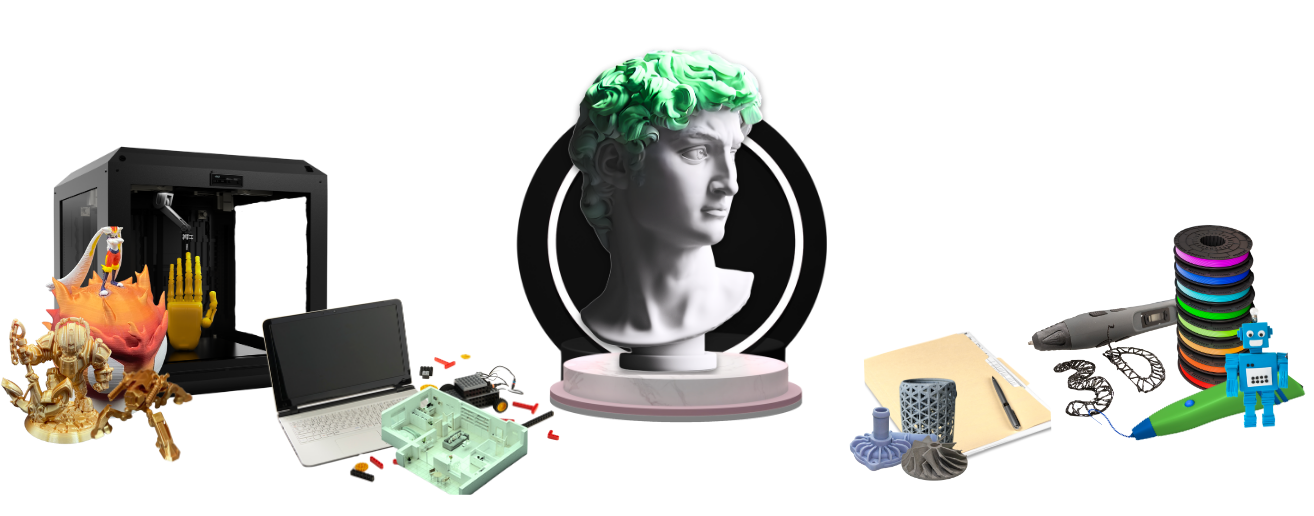
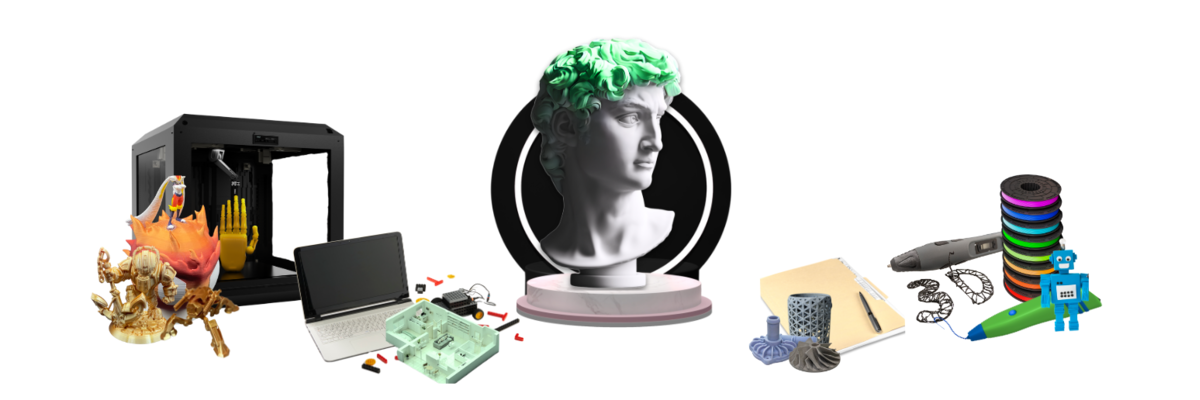
Agent query: Is the services section displaying all four services (3D Printing, AutoCAD Modeling, Consultation Services, and 3D Pen Art Workshop) with their complete descriptions?
Update website assets and refine service descriptions.  Minor UI adjustments to hero image and navbar.

Screenshot: https://storage.googleapis.com/screenshot-production-us-central1/b2414124-c20f-4490-81df-79a87c8a6c69/4aa1333f-a1d3-4c74-a38e-d1c8a9ecb427.jpg

Changed region(s): [[0.0, 0.09, 1.0, 0.96]]

diff --git a/client/src/components/services.tsx b/client/src/components/services.tsx
@@ -10,22 +10,22 @@ const services = [
     details: "Our technology ensures precision, durability, and customization for all creations, big or small.",
   },
   {
-    title: "AutoCAD Modeling",
-    description: "Transform your ideas into 3D-print-ready designs with our expert AutoCAD modelling services. We specialize in creating precise and functional models tailored for 3D printing.",
+    title: "AutoCAD Modeling (Small to Large Scale)",
+    description: "Transform your ideas into 3D-print-ready designs with our expert AutoCAD modelling services. We specialize in creating precise and functional models tailored for 3D printing, ensuring every detail is optimized for a flawless print.",
     icon: Code,
     details: "From intricate prototypes to large-scale production designs.",
   },
   {
-    title: "Consultation Services",
-    description: "Navigate the world of 3D printing with confidence through our expert consultation services. Our team provides tailored guidance at every step.",
+    title: "Consultation Services (Design and Materials)",
+    description: "Navigate the world of 3D printing with confidence through our expert consultation services. From selecting the right materials—such as PLA, ABS, resin, metal, and more—to refining your design for optimal results, our team provides tailored guidance at every step.",
     icon: GraduationCap,
     details: "Whether you're prototyping, creating functional parts, or producing artistic pieces.",
   },
   {
-    title: "3D Pen Art Workshop",
-    description: "Unleash your creativity with our fun and engaging 3D Pen Art Workshops, designed for all ages and skill levels. Perfect for kids, adults, families, and team-building events.",
+    title: "3D Pen Art Workshop (For Kids to Adults)",
+    description: "Unleash your creativity with our fun and engaging 3D Pen Art Workshops, designed for all ages and skill levels. Whether you're a curious beginner or a seasoned artist, our hands-on sessions guide you in creating stunning 3D masterpieces.",
     icon: Pen,
-    details: "Let your imagination come to life—one stroke at a time!",
+    details: "Perfect for kids, adults, families, and team-building events, these workshops combine creativity and innovation in an enjoyable and interactive environment. Let your imagination come to life—one stroke at a time!",
   }
 ];
 

diff --git a/client/src/components/navbar.tsx b/client/src/components/navbar.tsx
@@ -23,7 +23,8 @@ export default function Navbar() {
           <img 
             src="/Ethereal-Logo.png" 
             alt="Ethereal" 
-            className="h-12 w-auto"
+            className="h-10 w-auto object-contain" 
+            style={{ filter: 'drop-shadow(0 0 8px rgba(0, 255, 0, 0.3))' }}
             onError={(e) => {
               console.error('Logo failed to load:', e);
               const target = e.target as HTMLImageElement;
@@ -35,7 +36,7 @@ export default function Navbar() {
         {/* Right menu */}
         <div className="hidden md:flex items-center space-x-8">
           <Link href="/workshops">
-            <span className="text-white hover:text-[#00FF00] transition-colors text-xs tracking-[0.2em] font-medium">WORKSHOPS</span>
+            <span className="text-white hover:text-[00FF00] transition-colors text-xs tracking-[0.2em] font-medium">WORKSHOPS</span>
           </Link>
           <Link href="/consult">
             <span className="text-white hover:text-[#00FF00] transition-colors text-xs tracking-[0.2em] font-medium">CONSULT</span>

diff --git a/client/src/components/hero.tsx b/client/src/components/hero.tsx
@@ -43,7 +43,7 @@ export default function Hero() {
                 <img 
                   src="/Ethereal-Homepage.png" 
                   alt="3D Printing Showcase" 
-                  className="w-full h-full object-cover object-center"
+                  className="w-full h-full object-contain bg-black/50" 
                   onError={(e) => {
                     console.error('Hero image failed to load:', e);
                     const target = e.target as HTMLImageElement;

diff --git a/attached_assets/quenstance_my_canva_site_trial-ethereal-website.md b/attached_assets/quenstance_my_canva_site_trial-ethereal-website.md
@@ -84,11 +84,11 @@ expertise
 
 ![](https://quenstance.my.canva.site/trial-ethereal-website/_assets/media/795952394cba50b35f6ce060c343538d.png)
 
-![](blob:https://quenstance.my.canva.site/4f3cef1b-ae6b-4466-be97-a5f1d8564155)
+![](blob:https://quenstance.my.canva.site/2a4072d1-5b5f-40ec-b9b6-83f6b8b56d4e)
 
-![](blob:https://quenstance.my.canva.site/5a3414c0-e79d-40f3-b362-1207546040a0)
+![](blob:https://quenstance.my.canva.site/e951ca02-e428-42fd-851b-d14994290e5e)
 
-![](blob:https://quenstance.my.canva.site/7cd1daa5-ed4a-483f-b716-d5a1fc0b0764)
+![](blob:https://quenstance.my.canva.site/16c522c6-c06f-48b2-9496-46129b5044c5)
 
 Trusted by Leading Brands
 
@@ -106,11 +106,11 @@ WHY CHOOSE US?
 
 ![](https://quenstance.my.canva.site/trial-ethereal-website/_assets/media/71156e5045a1d161ea12ddfb8997fbac.png)
 
-![](blob:https://quenstance.my.canva.site/54602a12-90d1-41c0-a00b-3847c58e236f)
+![](blob:https://quenstance.my.canva.site/3e055d28-20c9-4e36-ba7b-9f219f3348a4)
 
-![](blob:https://quenstance.my.canva.site/c45f0d27-2240-47b7-88af-5add8501a829)
+![](blob:https://quenstance.my.canva.site/7e58c007-aeb4-4c8f-b1c8-bc1c4da5c69a)
 
-![](blob:https://quenstance.my.canva.site/ee722d96-9af4-4434-afce-ce039a374305)
+![](blob:https://quenstance.my.canva.site/446a52fb-c45a-4992-96cc-4fa37360803c)
 
 Title
 
@@ -190,11 +190,11 @@ footprint.
 
 ![](https://quenstance.my.canva.site/trial-ethereal-website/_assets/media/de5ca66df9c2b4223f14759ddb7d4f6b.jpg)
 
-![](blob:https://quenstance.my.canva.site/d5c2a055-041a-47d9-bd3a-0bd38da219b2)
+![](blob:https://quenstance.my.canva.site/5fbed00e-14f5-4161-82aa-dd555e5dba08)
 
-![](blob:https://quenstance.my.canva.site/288186bf-3036-4908-a867-5fe9c4618620)
+![](blob:https://quenstance.my.canva.site/ea9512dc-2247-49a3-9fe0-f6ade848967f)
 
-![](blob:https://quenstance.my.canva.site/3a9dfc07-a507-4b92-b9d6-cab19d602a12)
+![](blob:https://quenstance.my.canva.site/7d6cb111-6495-4ef8-aff7-254b12461a90)
 
 FEATURED SERVICES
 
@@ -229,6 +229,8 @@ CHECK OUT MORE
 ![](https://quenstance.my.canva.site/trial-ethereal-website/_assets/media/68e674cc12df71d1235b93efc637d589.jpg)
 
 CHECK OUT MORE
+
+![](blob:https://quenstance.my.canva.site/5c2de3e2-6860-4f2f-a2ff-74fe897c6fd5)
 
 AUTOCAD MODELING
 
@@ -463,10 +465,6 @@ adults had so much fun creating their own designs—it was easy to
 follow and so engaging.”
 
 “What Our Customers Say”
-
-![](blob:https://quenstance.my.canva.site/e5fbe53b-0021-4c7a-bcd4-38b3f4d85bd2)
-
-![](blob:https://quenstance.my.canva.site/e5fbe53b-0021-4c7a-bcd4-38b3f4d85bd2)
 
 ![](https://quenstance.my.canva.site/trial-ethereal-website/_assets/media/71156e5045a1d161ea12ddfb8997fbac.png)
 
